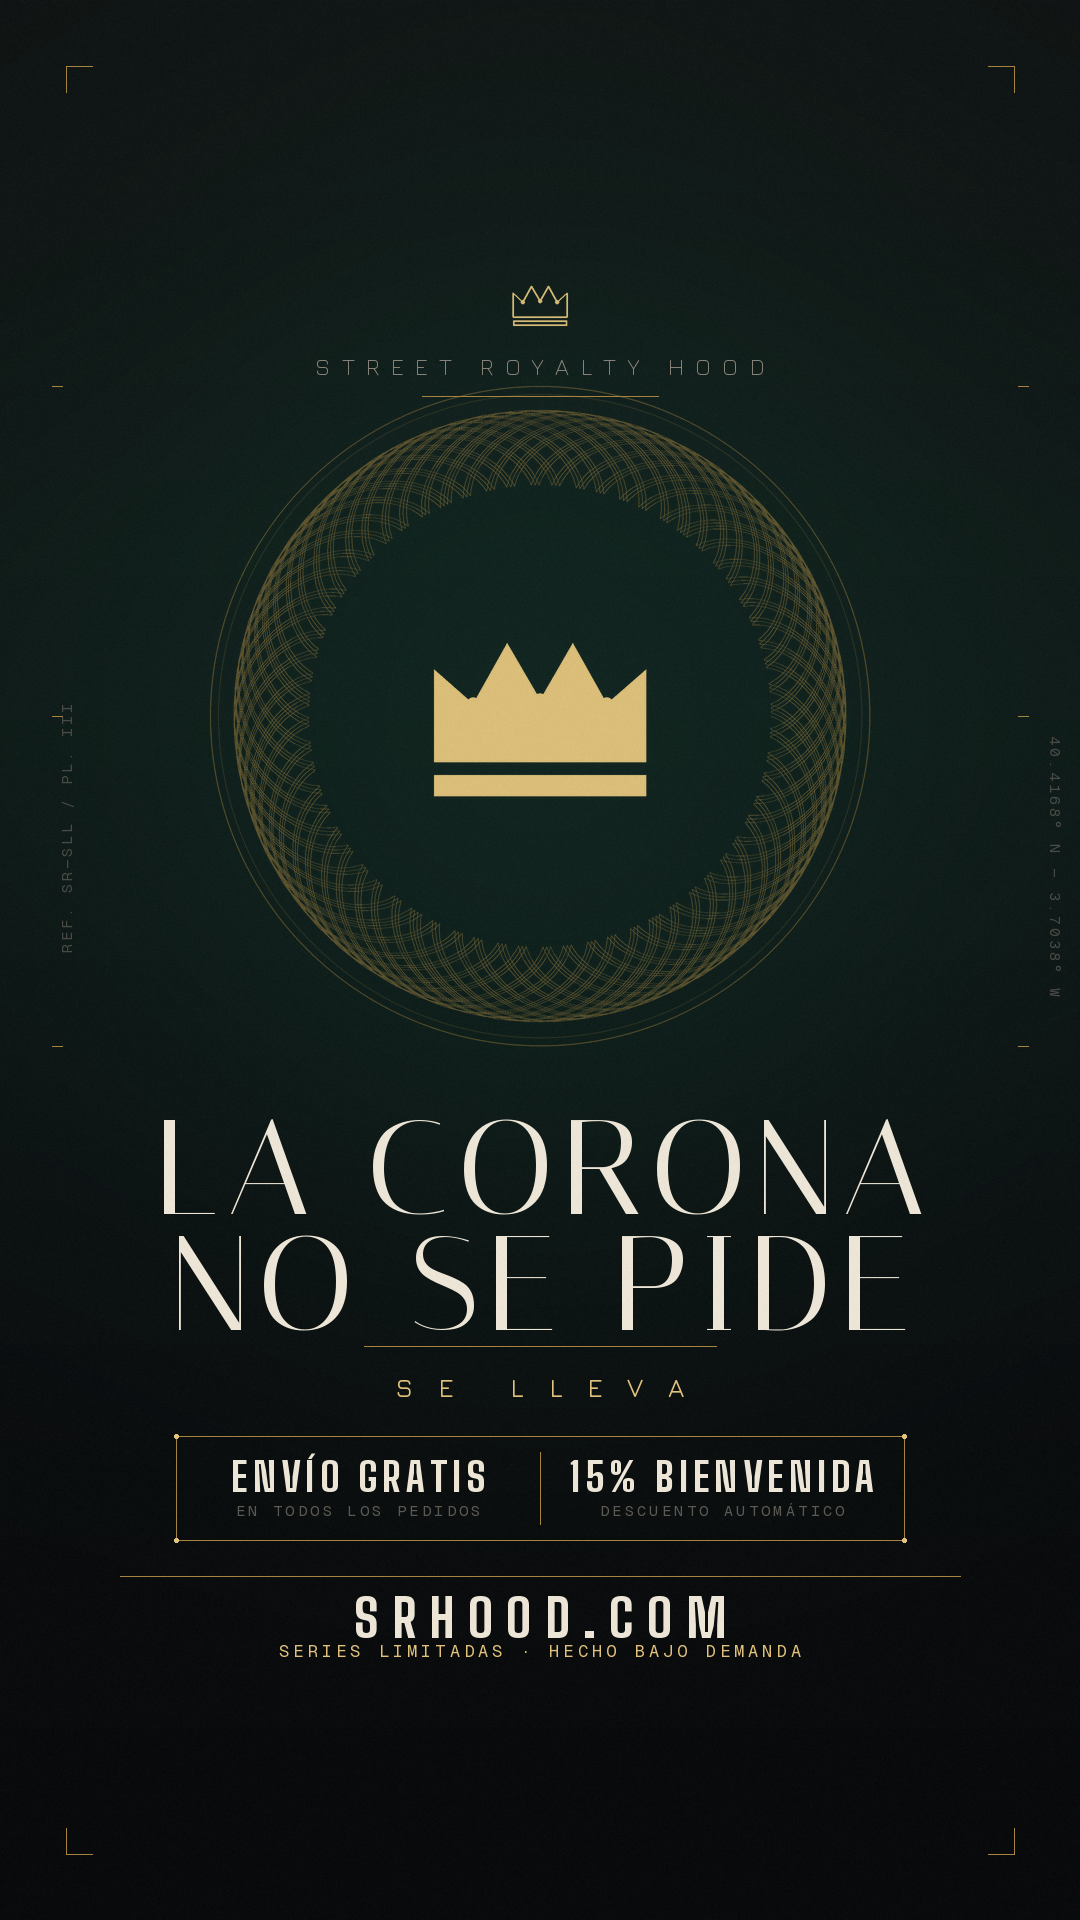
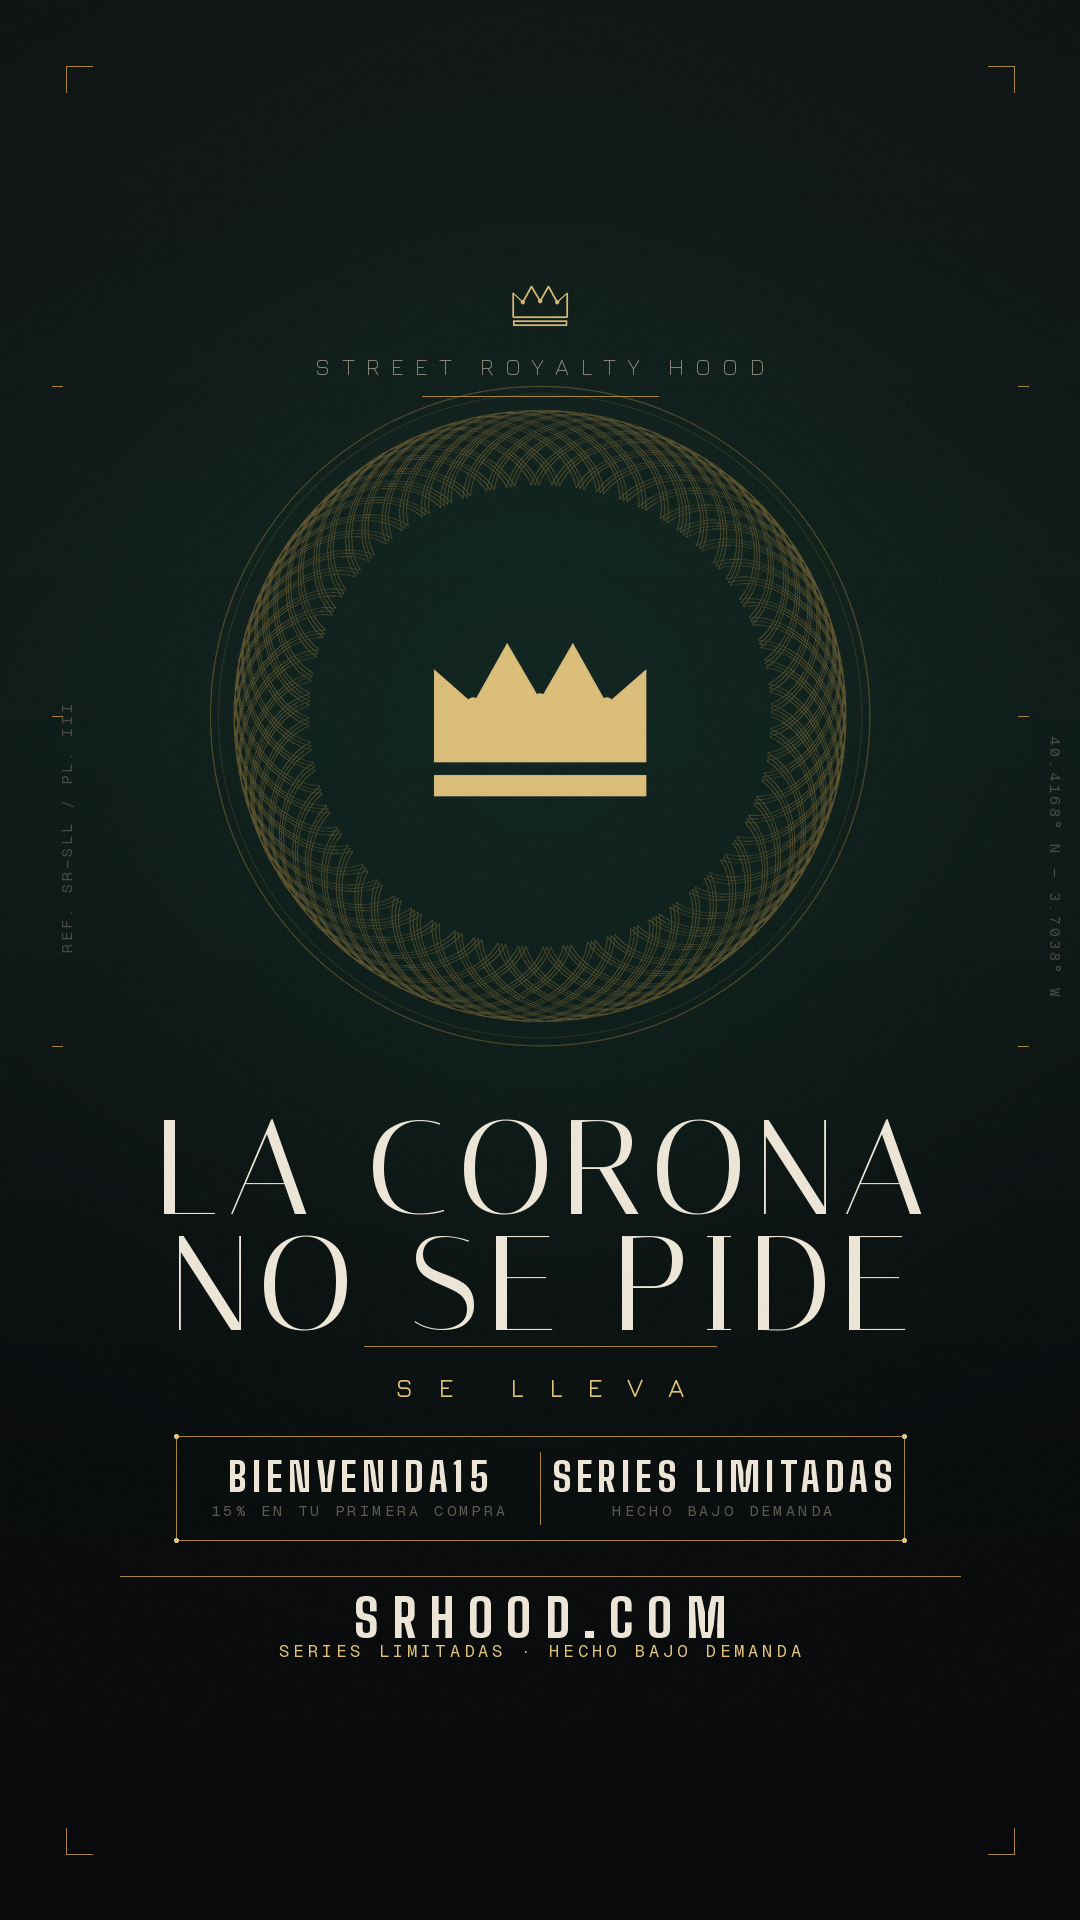
Envío gratis desde 39 € y 15% limitado a primera compra
- Tarifas condicionales por zona: gratis >=39 €, cargo etiquetado por debajo
- Desactivados los dos descuentos automáticos (envío gratis y 15%)
- Nuevo código BIENVENIDA15 con appliesOncePerCustomer
- Corregido el reclamo de envío gratis en página de envíos, FAQ y creativos

Claude-Session: https://claude.ai/code/session_01A1vehAdhX7FHFjRH5GsaDC

Changed region(s): [[0.5194, 0.75, 0.825, 0.7812], [0.2139, 0.75, 0.4583, 0.7812]]

diff --git a/store-assets/ads/build_frames.py b/store-assets/ads/build_frames.py
@@ -24,7 +24,7 @@ def cabecera(img, d):
     rule(d, 396, 118, ORO, 105)
 
 
-def pie(img, d, sub="ENVÍO GRATIS EN TODOS LOS PEDIDOS"):
+def pie(img, d, sub="SERIES LIMITADAS · HECHO BAJO DEMANDA"):
     rule(d, 1576, 420, ORO, 62)
     track(d, (540, 1612), "SRHOOD.COM", F(BIGSH_B, 52), CREMA + (255,), 13, "cm")
     track(d, (540, 1648), sub, F(GEIST, 17), ORO_HI + (215,), 4.0, "cm")
@@ -135,12 +135,12 @@ def plancha_3():
     for cx_, cy_ in [(x0, y0), (x1, y0), (x0, y1), (x1, y1)]:
         d.ellipse([cx_ - 2, cy_ - 2, cx_ + 2, cy_ + 2], fill=ORO_HI + (200,))
     d.line([540, y0 + 16, 540, y1 - 16], fill=ORO + (52,), width=1)
-    track(d, (358, 1472), "ENVÍO GRATIS", F(BIGSH_B, 40), CREMA + (255,), 5, "cm")
-    track(d, (358, 1508), "EN TODOS LOS PEDIDOS", F(GEIST, 15), CREMA_MUTE + (255,), 3.4, "cm")
-    track(d, (722, 1472), "15% BIENVENIDA", F(BIGSH_B, 40), CREMA + (255,), 5, "cm")
-    track(d, (722, 1508), "DESCUENTO AUTOMÁTICO", F(GEIST, 15), CREMA_MUTE + (255,), 3.4, "cm")
+    track(d, (358, 1472), "BIENVENIDA15", F(BIGSH_B, 40), CREMA + (255,), 5, "cm")
+    track(d, (358, 1508), "15% EN TU PRIMERA COMPRA", F(GEIST, 15), CREMA_MUTE + (255,), 3.4, "cm")
+    track(d, (722, 1472), "SERIES LIMITADAS", F(BIGSH_B, 40), CREMA + (255,), 5, "cm")
+    track(d, (722, 1508), "HECHO BAJO DEMANDA", F(GEIST, 15), CREMA_MUTE + (255,), 3.4, "cm")
 
-    pie(img, d, sub="SERIES LIMITADAS · HECHO BAJO DEMANDA")
+    pie(img, d)
     aparato(img, d, "REF. SR—SLL / PL. III", [CY - 330, CY, CY + 330])
     return grain(img, seed=29)
 

diff --git a/memory/2026-07-31-cambios-envio-descuento.md b/memory/2026-07-31-cambios-envio-descuento.md
@@ -1,0 +1,77 @@
+# Cambios aplicados 2026-07-31 — envío mínimo 39 € y 15% solo primera compra
+
+## 1. Envío
+
+Antes: tarifa 0 € en todas las zonas **más** un descuento automático de envío gratis sin
+mínimo. Resultado: envío gratis siempre, en todo el mundo.
+
+Ahora, en el «Perfil general», cada zona tiene **dos tarifas condicionales** y Shopify muestra
+solo la que corresponde al subtotal del carrito:
+
+| Zona | ≥ 39 € | ≤ 38,99 € |
+|---|---|---|
+| España | `Envío estándar` — 0 € | `Gastos de envío — pedido inferior a 39 €` — **4,95 €** |
+| UE | `Envío estándar internacional` — 0 € | `Gastos de envío — pedido inferior a 39 €` — **6,95 €** |
+| Internacional | `Envío estándar` — 0 € | `Gastos de envío — pedido inferior a 39 €` — **9,95 €** |
+
+El nombre de la tarifa es lo que ve el cliente en el carrito, así que el cargo se explica solo
+sin necesidad de banners ni avisos de «te faltan X € para el envío gratis».
+
+Descuento automático **«Envío gratis en todos los pedidos» → DESACTIVADO**. Era imprescindible:
+un descuento de envío se aplica sobre la tarifa y habría anulado también el cargo de los
+pedidos pequeños.
+
+## 2. Descuento del 15%
+
+Antes: `15% Bienvenida Royalty`, automático, sin mínimo, sin caducidad, para todos y siempre.
+
+**Un descuento automático no puede limitarse por cliente.** El esquema de Shopify no expone
+`appliesOncePerCustomer` en `DiscountAutomaticBasicInput`; solo permite acotar por segmento de
+cliente, y un segmento no evalúa a un invitado sin identificar, así que la mayoría del tráfico
+se quedaría sin verlo en el carrito. Por eso:
+
+- `15% Bienvenida Royalty` (automático) → **DESACTIVADO**
+- Nuevo código **`BIENVENIDA15`** — 15%, `appliesOncePerCustomer: true`, sin caducidad,
+  compatible con descuentos de envío, incompatible con otros de pedido/producto.
+
+`appliesOncePerCustomer` es el mecanismo nativo más cercano a «solo primera compra»: Shopify
+lo vincula a la cuenta o al email del checkout. Limitación conocida: alguien que compre con
+otro email puede reutilizarlo. La alternativa estricta (segmento «0 pedidos») rompe el
+checkout de invitado y se descartó.
+
+Sigue activo el BxGy `Completa el Look — 15% al llevar 2+ artículos`. Se deja a propósito:
+ahora empuja hacia el umbral de 39 €.
+
+## 3. Efecto en márgenes
+
+Con el 15% ya no aplicándose por defecto, los cinco casos negativos del informe anterior
+pasan a positivo. Los calcetines (14,95 €) siguen siendo el punto débil: en pedido suelto
+dejaban −1,53 € incluso sin descuento, pero ahora el comprador paga 4,95 € de envío, así que
+el pedido suelto queda en **+2,90 €**. Resuelto por la vía del envío, no por precio.
+
+## 4. Copy corregido (obligado)
+
+Con el cambio, todo lo que prometía «envío gratis en todos los pedidos» pasó a ser falso.
+Corregido:
+
+- **Página «Envíos y Devoluciones»** — sustituido «Envío GRATIS en todos los pedidos, sin
+  importe mínimo» por el detalle real de tarifas. En la página de política hay obligación
+  legal de indicar el coste (TRLGDCU art. 60), así que aquí sí se especifica.
+- **FAQ** — corregida la respuesta «¿Cuánto cuesta el envío?» y añadido `BIENVENIDA15` en la
+  pregunta de códigos de descuento.
+- **Creativos de Stories** — el pie ya no dice «ENVÍO GRATIS EN TODOS LOS PEDIDOS» sino
+  «SERIES LIMITADAS · HECHO BAJO DEMANDA», y la cédula de la plancha III promociona
+  `BIENVENIDA15` en lugar del 15% automático.
+
+### PENDIENTE — 497 fichas de producto
+
+**497 de 588 productos activos siguen con el reclamo falso en su meta descripción SEO** (y 122
+de ellos prometen además «15% de descuento automático»). Están preparados y verificados los
+497 textos corregidos, que eliminan el reclamo y lo sustituyen por «Envío a toda España ·
+Devoluciones fáciles» — sin mencionar el umbral, según lo pedido.
+
+No se ha ejecutado porque `bulkOperationRunMutation` está bloqueada por la política del MCP y
+hay que hacerlo en 10 lotes de `productUpdate`. Ficheros listos en el scratchpad
+(`lote01..10.gql`). **Es lo primero que hay que lanzar**: mientras siga así, cada ficha anuncia
+envío gratis incondicional, con riesgo de práctica comercial engañosa y de suspensión en
+Google Merchant Center por discrepancia de gastos de envío.
